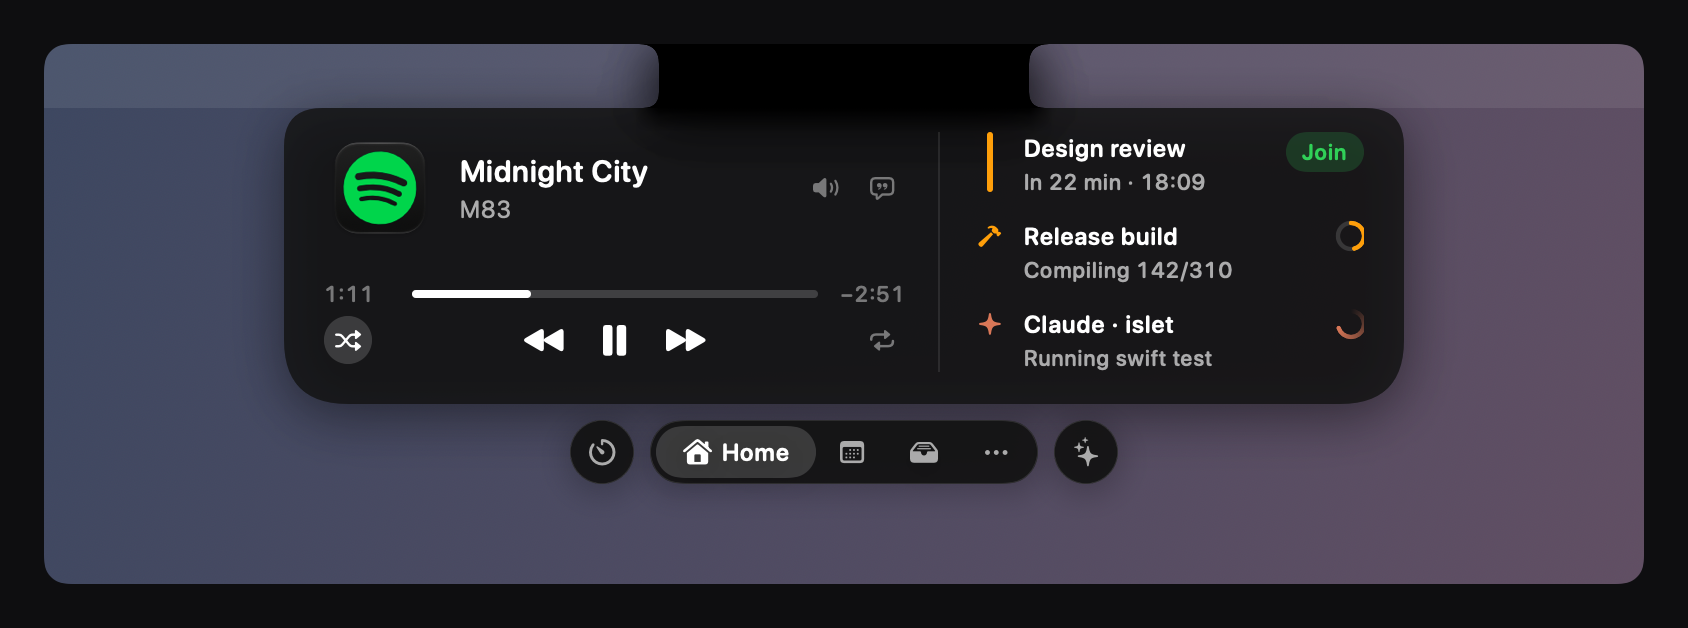
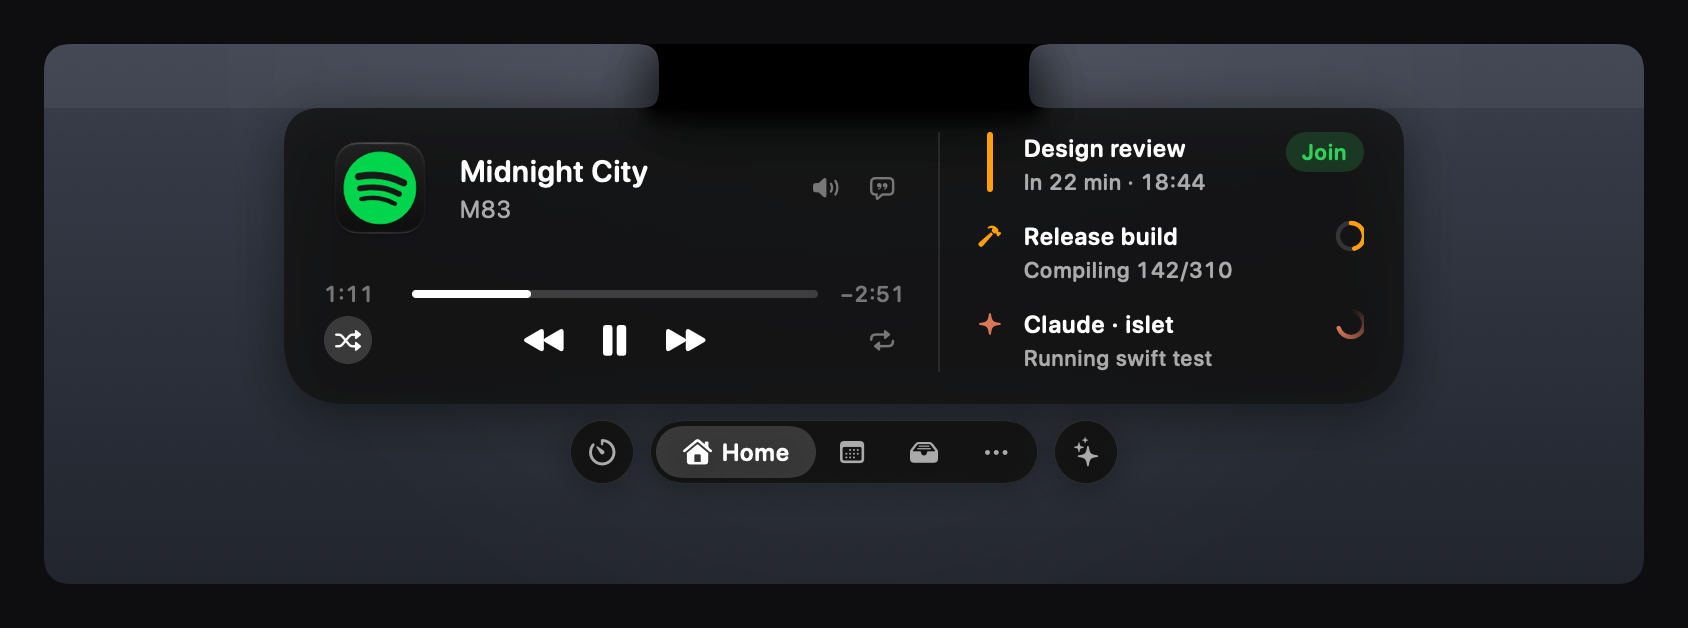
docs(readme): say less, show less, leave more space
The page opened with a bullet of 672 characters and two pictures of nine
states between them. Now each line of What it does is one line and points
at the page that has the detail, the open island leads on its own, and
three closed states follow where they illustrate the list. The desktop
behind them is nearly one colour with a soft lift under the island, so the
island is the only thing on the page with any hue in it.

diff --git a/Sources/Islet/Snapshots+Readme.swift b/Sources/Islet/Snapshots+Readme.swift
@@ -43,16 +43,14 @@ extension Snapshots {
                                                                       resetsAt: now.addingTimeInterval(72 * 60)), threshold: 90)
         let usage = activity(alert.activity(now: now))
 
-        // Five states, not every state: beside a notch the compact island has room for an icon and
-        // a value, so a ride, a score and a timer all look alike there. One of each kind says more
-        // than all of them, and the sneak peeks below carry the detail.
-        _ = (score, timer)
+        // Three states, not every state. Beside a notch the compact island has room for an icon
+        // and a value, so a ride, a score and a timer all look alike there; one of each kind says
+        // more than a sheet of them, and the pages they live on are where the detail belongs.
+        _ = (score, timer, waiting, usage)
         let rows: [(String, IslandPresentation, CGFloat)] = [
             ("Music, with everything else in bubbles", .compact(.nowPlaying(model.nowPlaying!)), 42),
-            ("A ride from your iPhone, mirrored from the menu bar", .compact(.activity(ride, others: 0)), 42),
-            ("A coding agent waiting for you", .compact(.activity(waiting, others: 0)), 42),
+            ("A ride from your iPhone", .compact(.activity(ride, others: 0)), 42),
             ("An agent's plan, step 3 of 5", .sneak(plan), 100),
-            ("A usage limit, before you hit it", .sneak(usage), 98),
         ]
         model.closedPlacements[1] = ClosedPlacement(wing: metrics.wingWidth, slack: .infinity)
         var images: [(String, NSImage)] = []
@@ -133,14 +131,17 @@ enum Readme {
 
 @MainActor
 extension Snapshots {
-    /// A desktop behind the island: a soft, desaturated gradient instead of a bright wallpaper,
-    /// so the island reads as the subject. The menu bar row and the notch are drawn as they are
-    /// on a real Mac, which is what makes the picture legible at a glance.
+    /// A desktop behind the island. Nearly one colour, a little lighter at the top as a real
+    /// wallpaper is under the menu bar, with a soft lift behind the island so it sits in light
+    /// rather than on a stripe. Restraint is the point: the island is the only thing with hue in
+    /// it, so the page it sits on should have almost none.
     static func readmeBackdrop(metrics: IslandMetrics) -> some View {
         ZStack(alignment: .top) {
-            LinearGradient(colors: [Color(red: 0.24, green: 0.28, blue: 0.38), Color(red: 0.38, green: 0.31, blue: 0.39)],
-                           startPoint: .topLeading, endPoint: .bottomTrailing)
-            Rectangle().fill(Color.white.opacity(0.08)).frame(height: metrics.notch.height)
+            LinearGradient(colors: [Color(red: 0.227, green: 0.247, blue: 0.298), Color(red: 0.133, green: 0.145, blue: 0.180)],
+                           startPoint: .top, endPoint: .bottom)
+            RadialGradient(colors: [Color.white.opacity(0.07), Color.white.opacity(0)],
+                           center: .top, startRadius: 0, endRadius: 320)
+            Rectangle().fill(Color.white.opacity(0.05)).frame(height: metrics.notch.height)
             UnevenRoundedRectangle(bottomLeadingRadius: 8, bottomTrailingRadius: 8)
                 .fill(Color.black)
                 .frame(width: metrics.notch.width, height: metrics.notch.height)

diff --git a/README.md b/README.md
@@ -4,29 +4,26 @@
 
 ![The island open on Home: a song playing, with a meeting, a build and a coding agent beside it](docs/images/expanded-home.png)
 
-<img src="docs/images/closed-states.png" width="560" alt="The closed island in five states: music with everything else in bubbles, a ride mirrored from the iPhone, a coding agent waiting, an agent's plan at step 3 of 5, and a usage limit alert">
-
 ## What it does
 
-- **Your iPhone's Live Activities.** Rides, deliveries, scores and flights that macOS shows in the menu bar appear in the island with the app's icon and colour, including the ones the notch hides. 137 apps have their own look. See [Live Activities](docs/LIVE-ACTIVITIES.md).
-- **Now Playing** from any app, browsers included, with a scrubber that seeks, ±15 s, shuffle and repeat, volume and an output picker. Each new song shows for a moment below the notch. Beside the notch, bars, a wave, a pulse, mirrored bars, artwork that turns like a record, or a little animated sticker (five of Islet's own, or a GIF of yours) show that it's playing. With a video in Chrome and a song in Spotify at once, small app icons beside the title switch between every player macOS lists. The controls work for the player macOS gives them to, and for Music and Spotify once you allow Islet to control them; for any other player, the island offers to open its app.
-- **Coding agents.** See what Claude Code, Codex or Cursor is doing, answer their permission requests and questions from the notch, and watch Claude Code's and Codex's usage limits. Those limits are read from files on your Mac, Codex's own session log among them, and only the limit figures are kept; either can be switched off in Settings. Agents can also drive the notch over MCP. See [Integrations](docs/INTEGRATIONS.md) and [MCP](docs/MCP.md).
-- **Ask** Apple Intelligence, Claude, ChatGPT or your command-line agent a quick question. See [AI](docs/AI.md).
-- **Timers and Pomodoro**, started from the island, a phrase like "tea 4m", Siri via Shortcuts ([recipes](docs/SHORTCUTS.md)) or a script.
-- **Calendar and Reminders**: meeting reminders that count down beside the notch and stay until you join, a large Join button, the rest of today, and reminders you can tick off. When macOS hasn't allowed Islet to read your calendar, it says why and opens the right page of System Settings.
-- **Calls, HUDs and system events**: call timers, volume, brightness and microphone HUDs (volume and brightness start off, since macOS shows its own), charging and battery, Focus, keep awake and a summary when you unlock.
-- **A file shelf, clipboard history, download progress and script widgets** (xbar and SwiftBar plugins run unchanged). The clipboard shows links, colours, pictures and files as themselves, with search, filters and pins; the shelf AirDrops a file in one click and lets files go after a day, or when you choose.
-- **Tools you turn on when you want them**: to-dos, a quick note, a unit converter, emoji search, your Shortcuts, the weather, CPU and memory, a camera mirror, a teleprompter just under the camera, a stocks watchlist and today's sales from Stripe, Shopify, Lemon Squeezy, Gumroad, Dodo Payments, Polar and Paddle. Each starts off; turn one on in Settings → Tools and its page appears under More. See [Tools](docs/TOOLS.md).
-- **Extras on the page they belong to**, also off at first: time-synced lyrics (Now Playing), a month calendar on Today, a stopwatch and focus sounds (Timers), and OpenRouter, Copilot and Ollama usage on Home (Coding agents).
-- **Your own activities** from the command line, a local HTTP API, the `islet://` URL scheme or iPhone Shortcuts. See the [API](docs/API.md).
+- **Your iPhone's Live Activities** — rides, deliveries, scores, flights — shown in the notch instead of hidden behind it. 137 apps have their own look. → [Live Activities](docs/LIVE-ACTIVITIES.md)
+- **Now Playing** from any app, browsers included, with synced lyrics, a scrubber that seeks and an output picker. Small app icons switch between every player macOS lists.
+- **Coding agents.** Watch Claude Code, Codex and Cursor work, answer their permission requests from the notch, and keep an eye on usage limits. → [Integrations](docs/INTEGRATIONS.md), [MCP](docs/MCP.md)
+- **Meetings, timers and reminders.** A meeting counts down beside the notch and waits with a Join button until you join it.
+- **A shelf, clipboard history and download progress.** Drop files on the notch, AirDrop one in a click, find that link you copied an hour ago.
+- **Twelve tools, each off until you want it:** to-dos, a note, a converter, emoji, the weather, a camera mirror, a teleprompter, stocks, sales and more. → [Tools](docs/TOOLS.md)
+- **Ask** Apple Intelligence, Claude, ChatGPT or your command-line agent a quick question. → [AI](docs/AI.md)
+- **Your own activities** from a script, the command line, an HTTP API, the `islet://` scheme or iPhone Shortcuts. → [API](docs/API.md)
+
+<img src="docs/images/closed-states.png" width="520" alt="The closed island: music with everything else in bubbles, a ride mirrored from the iPhone, and a coding agent's plan at step 3 of 5">
 
 ## How it stays out of the way
 
-- **It sits beside the notch, like the iPhone's.** It always stays in the menu bar row. With Accessibility it measures the menu bar and shrinks to the free space, down to just an icon each side, so it covers a menu bar icon only when the bar is packed right up to the notch.
+- **It lives in the menu bar row.** With Accessibility it measures the bar and shrinks to the space that's free, so it covers an icon only when the bar is packed right up to the notch.
 - **It costs nothing when idle.** Everything is driven by events, and the pointer isn't watched until it reaches the notch.
 - **It asks for nothing up front.** Each permission is requested when you turn on the feature that needs it.
-- **It keeps things on your Mac.** No account, no telemetry, no licence server. Questions go to an AI provider only when you ask one, with your own key. Lyrics, the weather, sales, stocks and OpenRouter or Copilot usage reach the network only once you turn them on; lyrics and the weather send no more than the song or a rounded position, and Islet never reads another app's sign-in.
-- **It works with VoiceOver and the keyboard.** VoiceOver reads the island in words ("Tea, 4 minutes 32 seconds left"), Increase Contrast firms up its text and edges, and with Keyboard navigation on, Tab reaches every control in Settings.
+- **It keeps things on your Mac.** No account, no telemetry, no licence server. Nothing reaches the network until you switch on something that needs it, and Islet never reads another app's sign-in.
+- **It works with VoiceOver and the keyboard**, and honours Reduce Motion and Increase Contrast.
 - **It's free and MIT-licensed**, written from scratch.
 
 ## Download
